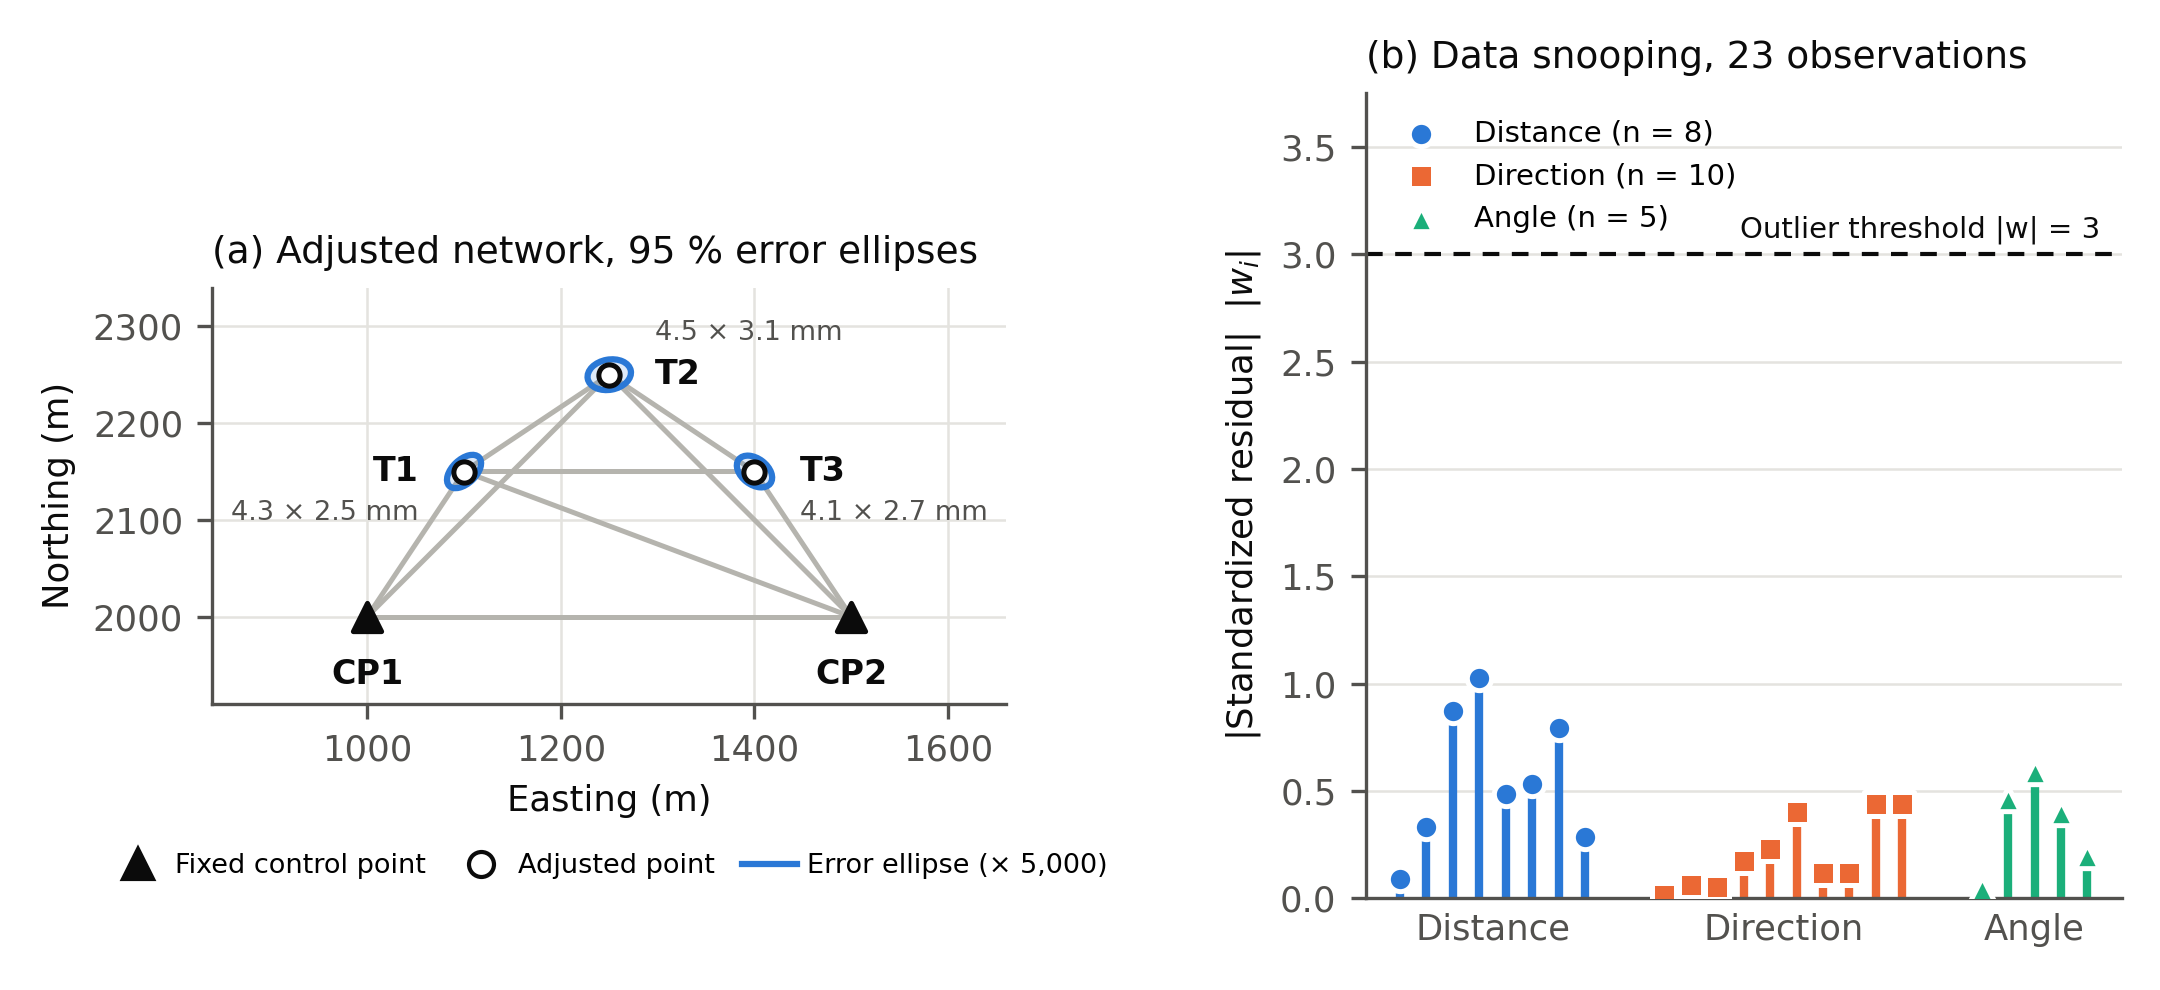
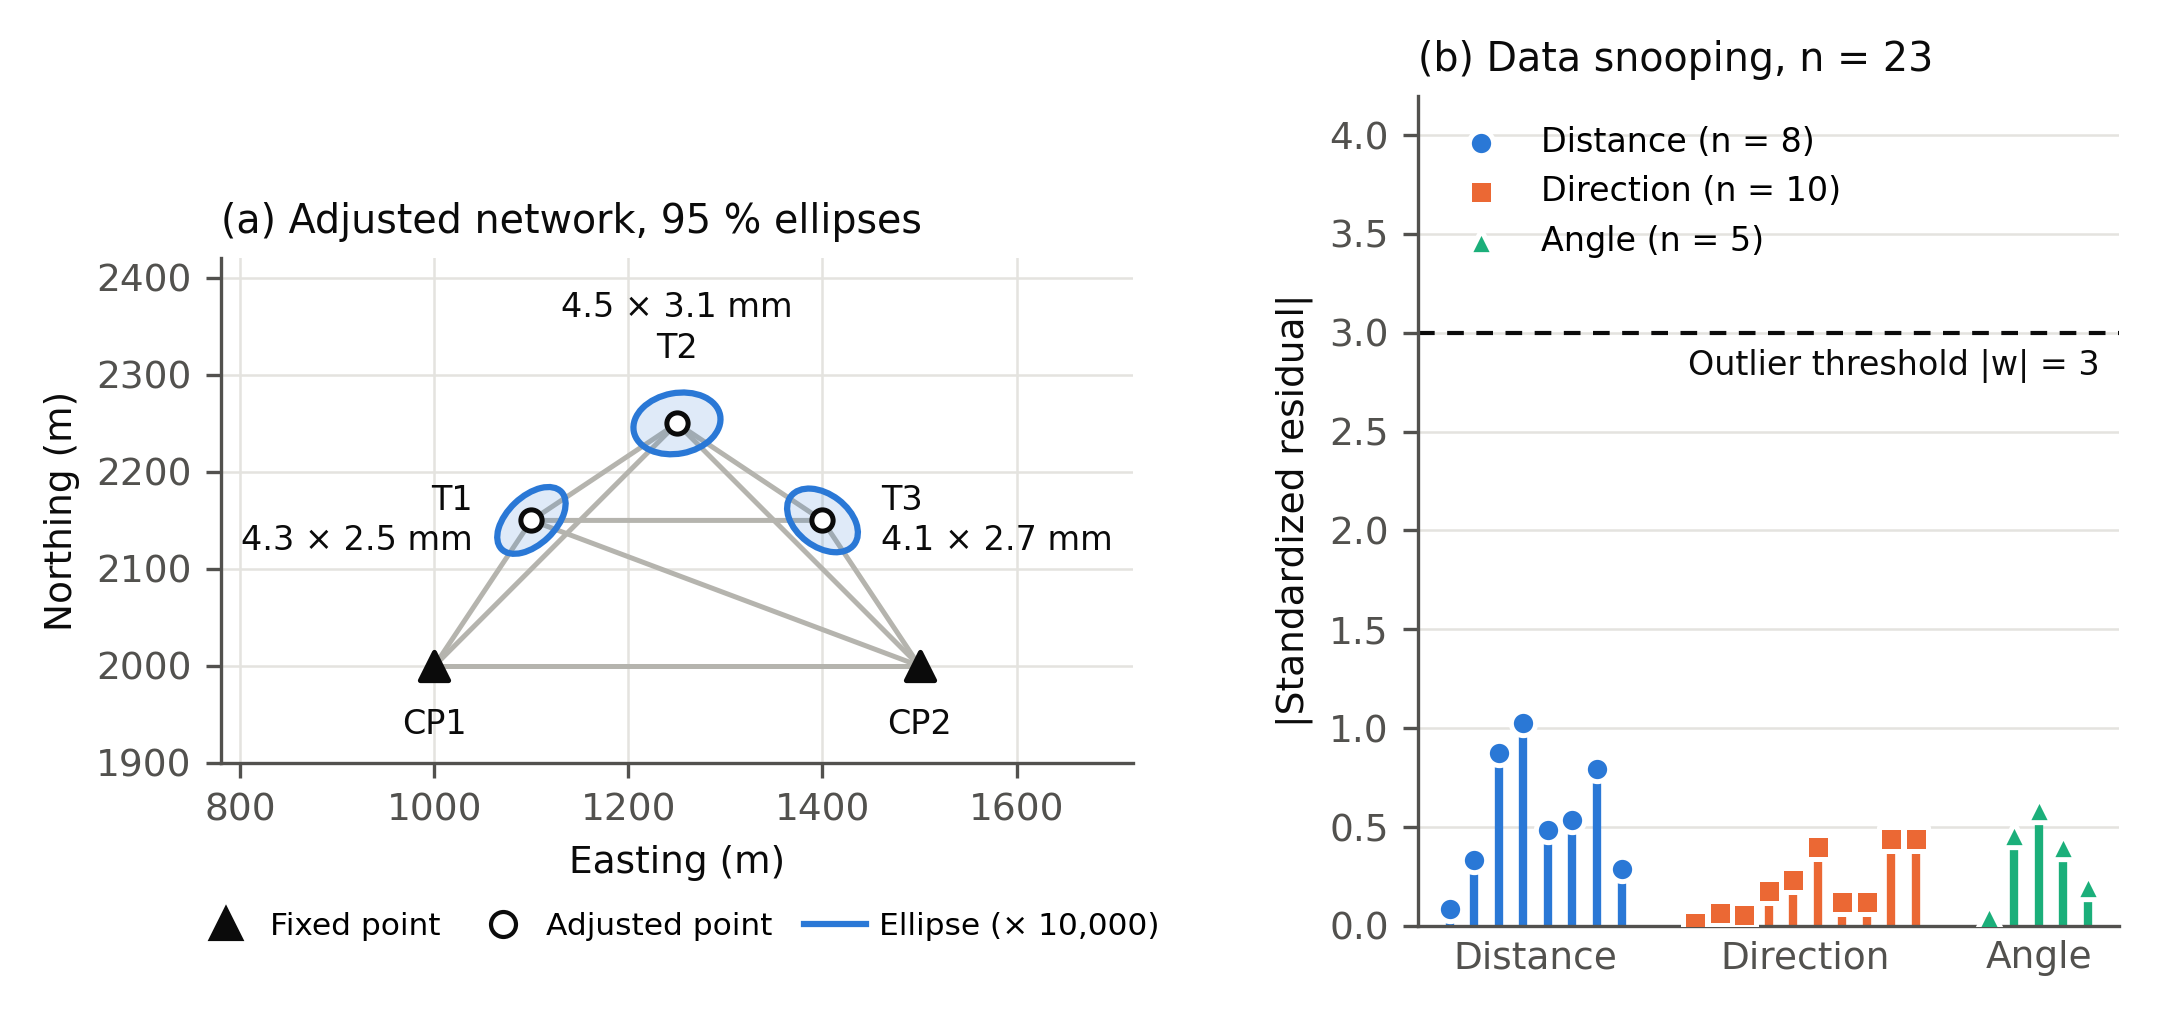
docs(paper): improve figure legibility and fix missing PDF glyphs
- Larger figure text, labels placed away from network lines, ellipses
  drawn 10,000x enlarged, legend moved below the map.
- Replace the >= and approx. symbols, which the JOSS PDF font lacks.

Refs #3

diff --git a/paper/make_figure.py b/paper/make_figure.py
@@ -19,8 +19,9 @@ ROOT = Path(__file__).resolve().parent.parent
 RESULT = ROOT / "examples" / "2d_traverse" / "Result" / "Adjustment_Result.json"
 OUTPUT = ROOT / "paper" / "figure.png"
 
-ELLIPSE_SCALE = 5000          # exaggeration factor for drawing the ellipses
+ELLIPSE_SCALE = 10000         # exaggeration factor for drawing the ellipses
 CHI2_2DOF_95 = 5.991464547    # chi-square quantile, 2 degrees of freedom, 95 %
+TIMES = "×"              # multiplication sign
 
 INK = "#0b0b0b"
 INK_2 = "#52514e"
@@ -35,7 +36,7 @@ TYPE_STYLE = {                # colour + marker, so type is never colour-alone
 
 plt.rcParams.update({
     "font.family": "DejaVu Sans",
-    "font.size": 8.5,
+    "font.size": 9,
     "axes.edgecolor": INK_2,
     "axes.labelcolor": INK,
     "xtick.color": INK_2,
@@ -50,7 +51,7 @@ residuals = data["residuals"]
 threshold = data["metadata"]["settings_snapshot"]["outlier_threshold"]
 
 fig, (ax_map, ax_res) = plt.subplots(
-    1, 2, figsize=(7.2, 3.3), gridspec_kw={"width_ratios": [1.05, 1]}
+    1, 2, figsize=(7.2, 3.4), gridspec_kw={"width_ratios": [1.3, 1]}
 )
 
 # (a) Network, adjusted points and 95 % error ellipses ----------------------
@@ -85,39 +86,39 @@ for pid, p in points.items():
     dx, dn = p["easting"] - centre_e, p["northing"] - centre_n
     if fixed:
         offset, ha, va = (0, -10), "center", "top"
+    elif dn > abs(dx):
+        offset, ha, va = (0, 14), "center", "bottom"
     elif dx < 0:
-        offset, ha, va = (-11, 0), "right", "center"
+        offset, ha, va = (-14, 0), "right", "center"
     else:
-        offset, ha, va = (11, 0), "left", "center"
-    ax_map.annotate(pid, (p["easting"], p["northing"]), xytext=offset,
-                    textcoords="offset points", ha=ha, va=va, fontsize=8,
-                    color=INK, fontweight="bold")
+        offset, ha, va = (14, 0), "left", "center"
+    label = pid
     if "ellipse_mm" in p:
-        ax_map.annotate("{:.1f} × {:.1f} mm".format(*p["ellipse_mm"]),
-                        (p["easting"], p["northing"]),
-                        xytext=(offset[0], offset[1] + (10 if dn > abs(dx) else -10)),
-                        textcoords="offset points", ha=ha, va=va, fontsize=6.5,
-                        color=INK_2)
+        mm = f"{p['ellipse_mm'][0]:.1f} {TIMES} {p['ellipse_mm'][1]:.1f} mm"
+        label = f"{pid}\n{mm}" if va != "bottom" else f"{mm}\n{pid}"
+    ax_map.annotate(label, (p["easting"], p["northing"]), xytext=offset,
+                    textcoords="offset points", ha=ha, va=va, fontsize=8,
+                    color=INK, linespacing=1.3)
 
 ax_map.set_aspect("equal")
-ax_map.set_xlim(840, 1660)
-ax_map.set_ylim(1910, 2340)
+ax_map.set_xlim(780, 1720)
+ax_map.set_ylim(1900, 2420)
 ax_map.set_xlabel("Easting (m)")
 ax_map.set_ylabel("Northing (m)")
 ax_map.grid(color=GRID, lw=0.6)
 ax_map.set_axisbelow(True)
-ax_map.set_title("(a) Adjusted network, 95 % error ellipses",
-                 loc="left", fontsize=9, color=INK)
+ax_map.set_title("(a) Adjusted network, 95 % ellipses", loc="left",
+                 fontsize=9.5, color=INK)
 ax_map.legend(
     handles=[
         Line2D([], [], marker="^", ls="", color=INK, markersize=7,
-               label="Fixed control point"),
+               label="Fixed point"),
         Line2D([], [], marker="o", ls="", markerfacecolor="white",
                markeredgecolor=INK, markersize=6, label="Adjusted point"),
         Line2D([], [], color=ELLIPSE, lw=1.5,
-               label=f"Error ellipse (× {ELLIPSE_SCALE:,})"),
+               label=f"Ellipse ({TIMES} {ELLIPSE_SCALE:,})"),
     ],
-    loc="upper center", bbox_to_anchor=(0.5, -0.3), ncol=3, fontsize=6.5,
+    loc="upper center", bbox_to_anchor=(0.5, -0.24), ncol=3, fontsize=7.5,
     frameon=False, handletextpad=0.4, columnspacing=1.0)
 
 # (b) Standardized residuals against the data-snooping threshold ------------
@@ -136,18 +137,18 @@ for obs_type, (colour, marker) in TYPE_STYLE.items():
 
 ax_res.axhline(threshold, color=INK, lw=1, ls=(0, (4, 3)), zorder=1)
 ax_res.annotate(f"Outlier threshold |w| = {threshold:g}", (x - 2.5, threshold),
-                xytext=(0, 4), textcoords="offset points", ha="right",
-                fontsize=7, color=INK)
+                xytext=(0, -4), textcoords="offset points", ha="right",
+                va="top", fontsize=8, color=INK)
 ax_res.set_xticks([t for t, _ in ticks], [n.capitalize() for _, n in ticks])
 ax_res.tick_params(axis="x", length=0)
-ax_res.set_ylim(0, threshold * 1.25)
-ax_res.set_ylabel("|Standardized residual|  $|w_i|$")
+ax_res.set_ylim(0, threshold * 1.4)
+ax_res.set_ylabel("|Standardized residual|")
 ax_res.grid(axis="y", color=GRID, lw=0.6)
 ax_res.set_axisbelow(True)
-ax_res.set_title(f"(b) Data snooping, {len(residuals)} observations",
-                 loc="left", fontsize=9, color=INK)
-ax_res.legend(loc="upper left", fontsize=7, frameon=False)
+ax_res.set_title(f"(b) Data snooping, n = {len(residuals)}", loc="left",
+                 fontsize=9.5, color=INK)
+ax_res.legend(loc="upper left", fontsize=8, frameon=False)
 
-fig.tight_layout(w_pad=2.5)
+fig.tight_layout(w_pad=2.0)
 fig.savefig(OUTPUT, dpi=300, facecolor="white")
 print(f"wrote {OUTPUT.relative_to(ROOT)}")

diff --git a/paper/paper.md b/paper/paper.md
@@ -80,7 +80,7 @@ a snapshot of the settings used.
 | GNU GaMa [@cepek2002] | Open source | None (command line, XML) | Tabular reports |
 | `SurveyingCalculation` plugin | Open source | Wraps a GaMa binary; QGIS 2.x | Layers |
 | `QNET` plugin | Open source | Dialog-based plugin | Layers |
-| **This work** | **Open source (GPL-2.0)** | **Processing provider, QGIS ≥ 3.22** | **GeoPackage layers + JSON/HTML** |
+| **This work** | **Open source (GPL-2.0)** | **Processing provider, QGIS 3.22+** | **GeoPackage layers + JSON/HTML** |
 
 Commercial packages are mature and reliability-aware but are licensed and
 stand-alone. GNU GaMa is the authoritative open-source adjustment engine, and we
@@ -96,7 +96,7 @@ in models, and testable.
 
 # Software design
 
-The code base (≈11,000 lines of Python) is split into a QGIS-independent
+The code base (about 11,000 lines of Python) is split into a QGIS-independent
 **core** and a thin **integration layer**. The core contains the observation and
 network models, the solvers, the statistics and reliability modules, a
 constraint-health validator, and the report writers. The integration layer
@@ -168,7 +168,7 @@ processing.run("survey_adjustment:adjust_network_2d", {
 
 ![Adjustment of the example 2D traverse (two fixed control points, three new
 points, 23 distance, direction, and angle observations). (a) Adjusted points and
-95 % error ellipses, drawn 5,000 times enlarged; labels give the semi-axes.
+95 % error ellipses, drawn 10,000 times enlarged; labels give the semi-axes.
 (b) Absolute standardized residuals used for data snooping; no observation
 exceeds the outlier threshold. Generated from the plugin's JSON report by
 `paper/make_figure.py`.\label{fig:traverse}](figure.png)
